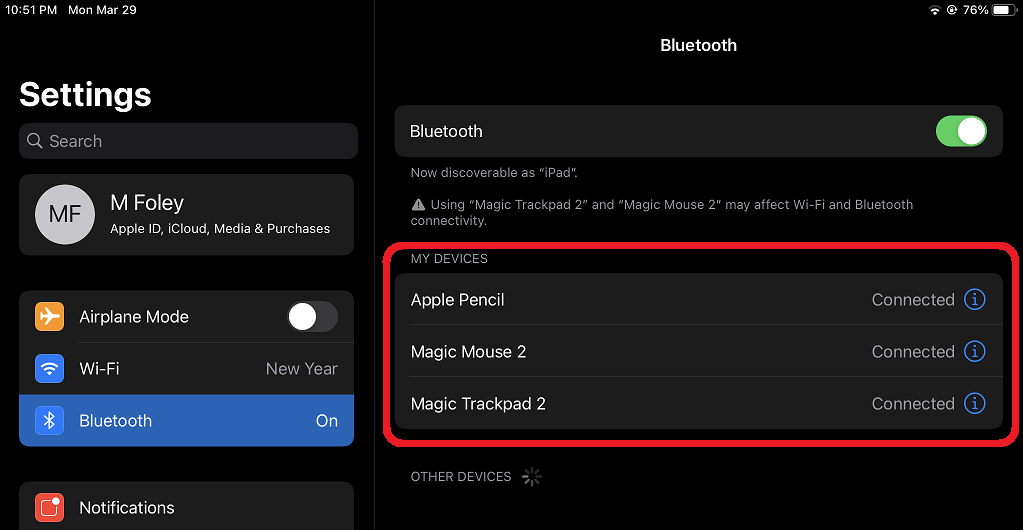
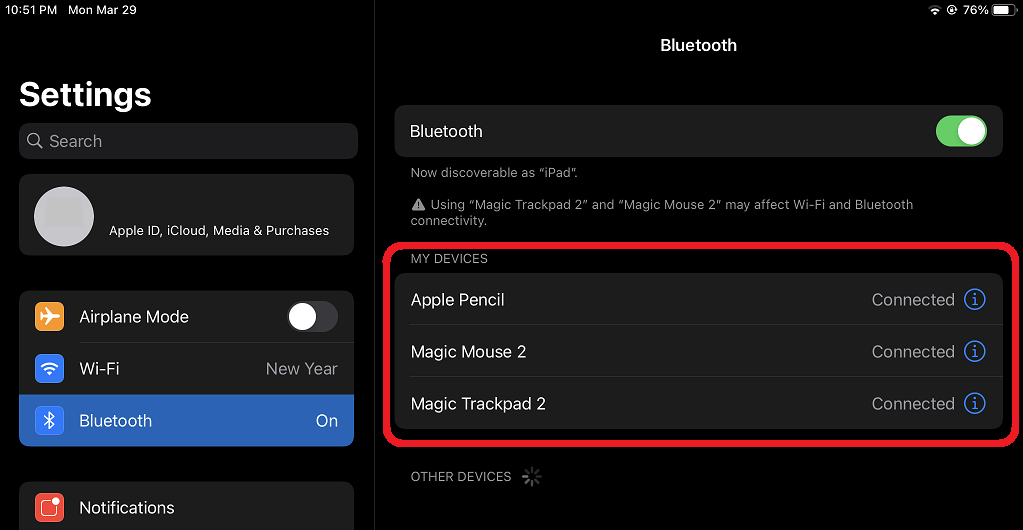
anonymization

Changed region(s): [[0.0303, 0.3321, 0.3333, 0.4528], [0.0606, 0.4528, 0.0909, 0.483]]

diff --git a/src/consent_letter - OLD.md b/src/consent_letter - OLD.md
@@ -1,0 +1,107 @@
+
+
+### Information Consent Letter 
+
+
+#### Study: Evaluation of Human-Computer Interaction Techniques
+
+_Principal Investigator/Faculty Supervisor:_ Dr. Daniel Vogel, Associate Professor, School of Computer Science, University of Waterloo, 519-888-4567 ext. 33561, [dvogel@uwaterloo.ca](mailto:dvogel@uwaterloo.ca)
+
+_Students and Co-Investigators:_ 
+
+Margaret Foley &lt;mjfoley@uwaterloo.ca> \
+Quentin Roy &lt;quentin.roy@uwaterloo.ca>
+
+To help you make an informed decision regarding your participation, this letter will explain what the study is about, the possible risks and benefits, and your rights as a research participant.  If you do not understand something in the letter, please ask one of the investigators prior to consenting to the study. You will be provided with a copy of the information and consent form if you choose to participate in the study.
+
+
+#### What is the study about?
+
+You are invited to participate in a research study examining methods for people to interact with computers and other digital devices. In this experiment, you will complete simple tasks to test how you choose to use a graphical user interface. This is important because understanding the characteristics and performance of human-computer interaction can discover new interaction methods and improve existing interaction methods. The results of this study contribute to graduate theses and faculty research.
+
+
+### 1. Your responsibilities as a participant
+
+
+#### What does participation involve?
+
+Participation in the study will consist of a 60 minute session scheduled at the location of your choice. During a session, you will be asked to type text or manipulate graphical widgets to complete simple tasks such as answering general questions, selecting objects in an image, or moving graphical objects. The questions or images are not personal or controversial in nature.
+
+During the experiment, you may also be asked for your opinion of the techniques and tasks regarding factors such as overall preference, fatigue, comfort, speed, accuracy, utility, suitability, etc. A researcher may observe and take notes regarding your interactions, and may ask you verbal questions about what you are experiencing when completing the experiment.  You may decline to respond to questions if you wish. If you wish to decline a written question, leave it blank.
+
+Your computer interactions will also be captured and stored in a computer log file.  With your permission, you may also be audio recorded and/or videotaped; however, for publications, public datasets, or presentations, your identity will be masked by altering tone and pitch in the audio and obscuring identity in the video by blurring.
+
+
+#### Who may participate in the study?
+
+In order to participate in the study: you must be able to enter text on a computer and control a computer cursor using a mouse, touchpad, or similar pointing device.
+
+
+### 2. Your rights as a participant
+
+
+#### What are the possible benefits of the study?
+
+Participation in this study may not provide any personal benefit to you. The study will benefit the academic community and society in general by contributing a better understanding of human-computer interaction and potentially inventing new methods of interaction.
+
+
+#### Will I receive remuneration for participating in the study?
+
+In appreciation of your time, you will receive $10_._ If you begin a session but do not complete it, your participation in the study will end and you will be remunerated for the proportion of what you completed, up to half the full session remuneration. The remuneration you receive is taxable: it is your responsibility to report this amount for income tax purposes. 
+
+
+#### What are the risks associated with the study?
+
+There is potential for minor discomfort or fatigue from performing repeated tasks, but the physical requirements of the task are like normal computer usage and/or common real-world tasks. We will minimize this risk by requiring and/or encouraging rest breaks.
+
+During the experiment you may touch or wear a device (e.g. goggles, gloves, smartphone, touchscreen), so there is potential for transmission of bacteria. We will minimize this risk by cleaning the device after each participant session using a disinfectant spray, rubbing alcohol, or similar cleanser.
+
+
+#### Is participation in the study voluntary?
+
+Your participation in this study is voluntary. You may decide to withdraw from the study at any time by communicating this to the researcher.
+
+
+#### Will my identity be known?
+
+The research team will know which data is from your participation, but all data will be anonymized for analysis, reporting, and public data sharing.
+
+
+#### Will my information be kept confidential?
+
+The association between your identify and the research data is considered completely confidential.  Your name will not appear in any public dataset or publication resulting from this study.  In all cases, participants will only be referred to using generic labels (P1, P2, …) or collectively as a group (Group A, Group B,…).  
+
+Consent forms with participant names collected during this study will be retained on encrypted removable media if electronic and/or in locked cabinets if paper.  
+
+You will be explicitly asked for consent for the use of any photo/video/audio data for the purpose of reporting the study’s findings.  If consent is granted, these data will be used only for the purposes associated with teaching, scientific presentations, publications, and/or sharing with other researchers. You will not be identified by name, and where possible, the images will be anonymized.
+
+All identifiable information will be deleted from the dataset collected so that individual participant's anonymity will be protected. The de-identified data will be accessible by the study investigators as well as the broader scientific community. More specifically, the data may be posted on public databases and/or made available to other researchers upon publication, so that data may be inspected and analyzed by other researchers. The data that will be shared will not contain any information that can identify you.
+
+
+### 3. Questions, comments, or concerns
+
+
+#### Who is sponsoring/funding this study?
+
+This study is funded/sponsored by the Natural Sciences and Engineering Research Council of Canada (NSERC), the Province of Ontario, and the University of Waterloo.
+
+
+#### Has the study received ethics clearance?
+
+This study has been reviewed and received ethics clearance through a University of Waterloo Research Ethics Committee (ORE# 31173). If you have questions for the Committee contact the Office of Research Ethics at 1-519-888-4567 ext. 36005 or [ore-ceo@uwaterloo.ca](mailto:ore-ceo@uwaterloo.ca).
+
+
+#### Who should I contact if I have questions regarding my participation in the study?
+
+If you have any questions regarding this study, or would like additional information to assist you in reaching a decision about participation, please contact Dr. Daniel Vogel at 516.888.4567 x33561 or by email at [dvogel@uwaterloo.ca](mailto:dvogel@uwaterloo.ca). You can also contact any member of the research team listed on the first page of the consent letter.
+
+---
+
+
+### Consent Form
+
+By providing your consent, you are not waiving your legal rights or releasing the investigator(s) or involved institution(s) from their legal and professional responsibilities.
+
+I have read the information presented in the information letter about a study led by Dr. Daniel Vogel, School of Computer Science, University of Waterloo.  I have had the opportunity to ask questions related to the study and have received satisfactory answers to my questions and any additional details. **I was informed that participation in the study is voluntary and that I can withdraw this consent by informing the researcher.**  
+
+This study has been reviewed and received ethics clearance through a University of Waterloo Research Ethics Committee ORE# 31173. If you have questions for the Committee contact the Office of Research Ethics at 1-519-888-4567 ext. 36005 or [ore-ceo@uwaterloo.ca](mailto:ore-ceo@uwaterloo.ca).  For all other questions contact Dr. Daniel Vogel, School of Computer Science, University of Waterloo at 519-888-4567 ext. 33561 or [dvogel@uwaterloo.ca](mailto:dvogel@uwaterloo.ca) 
